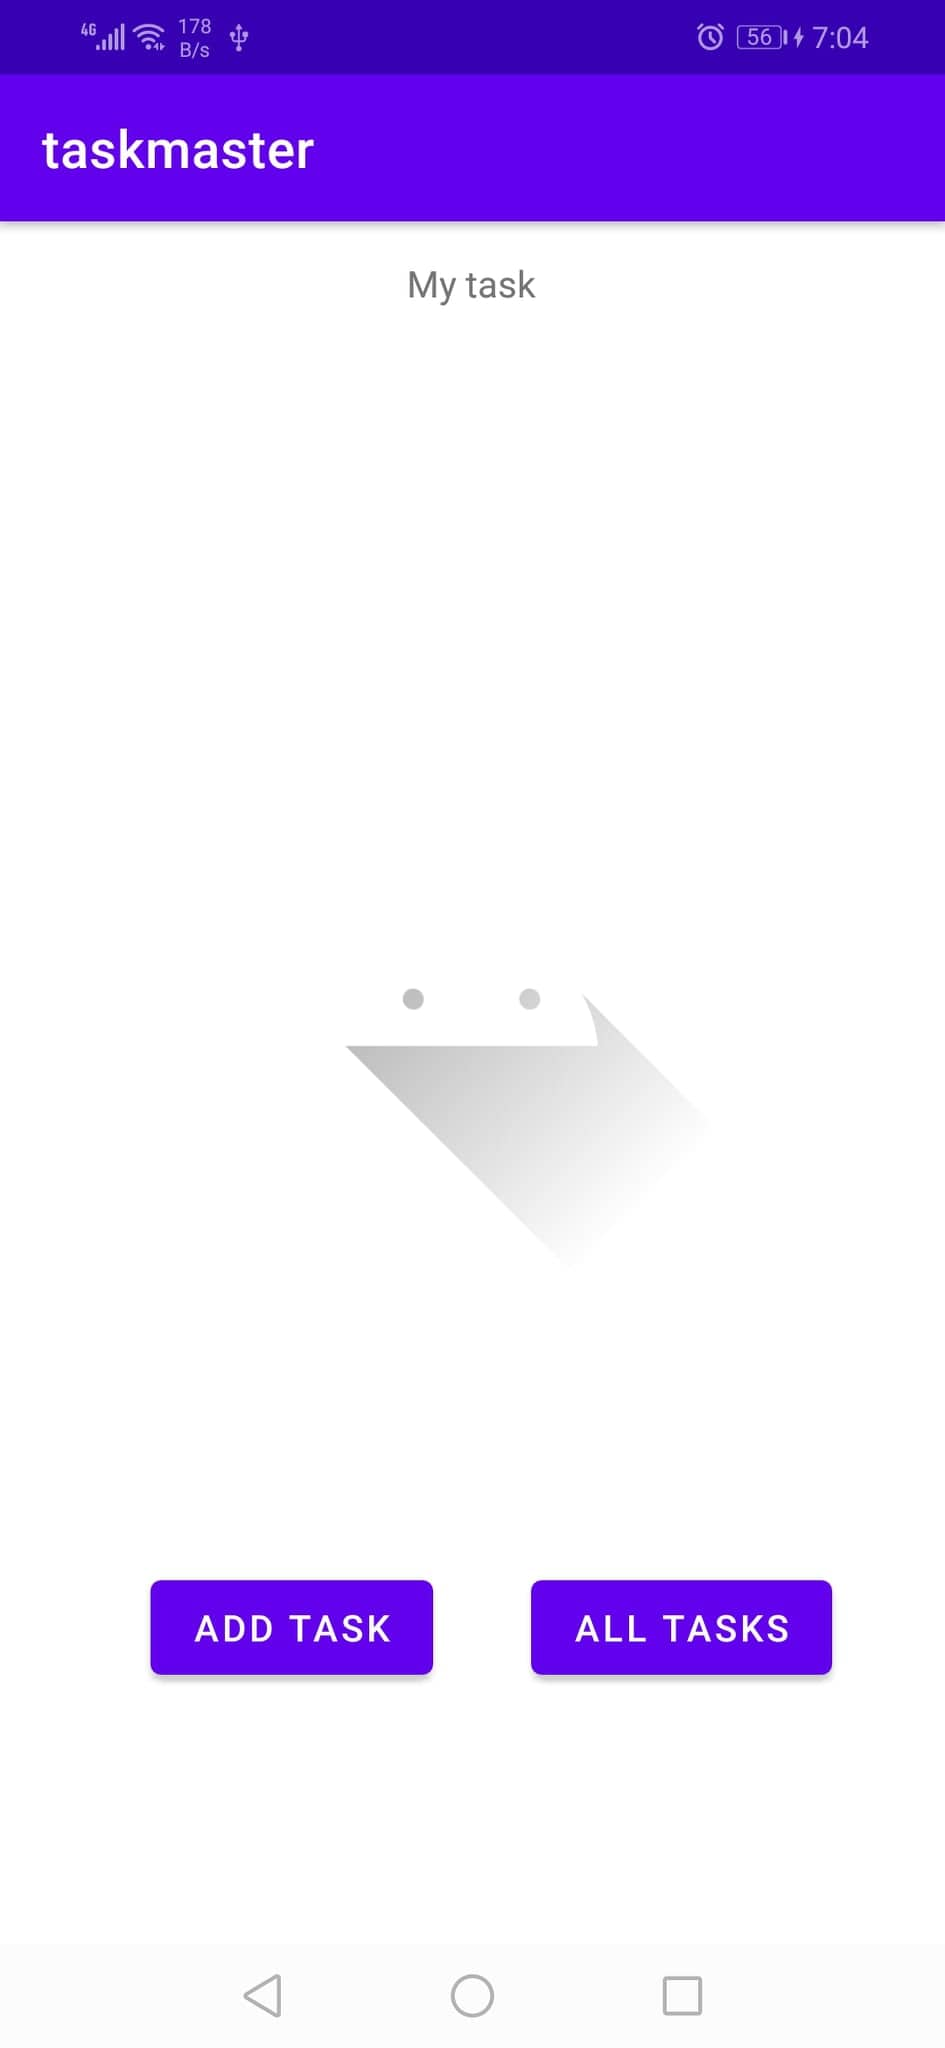
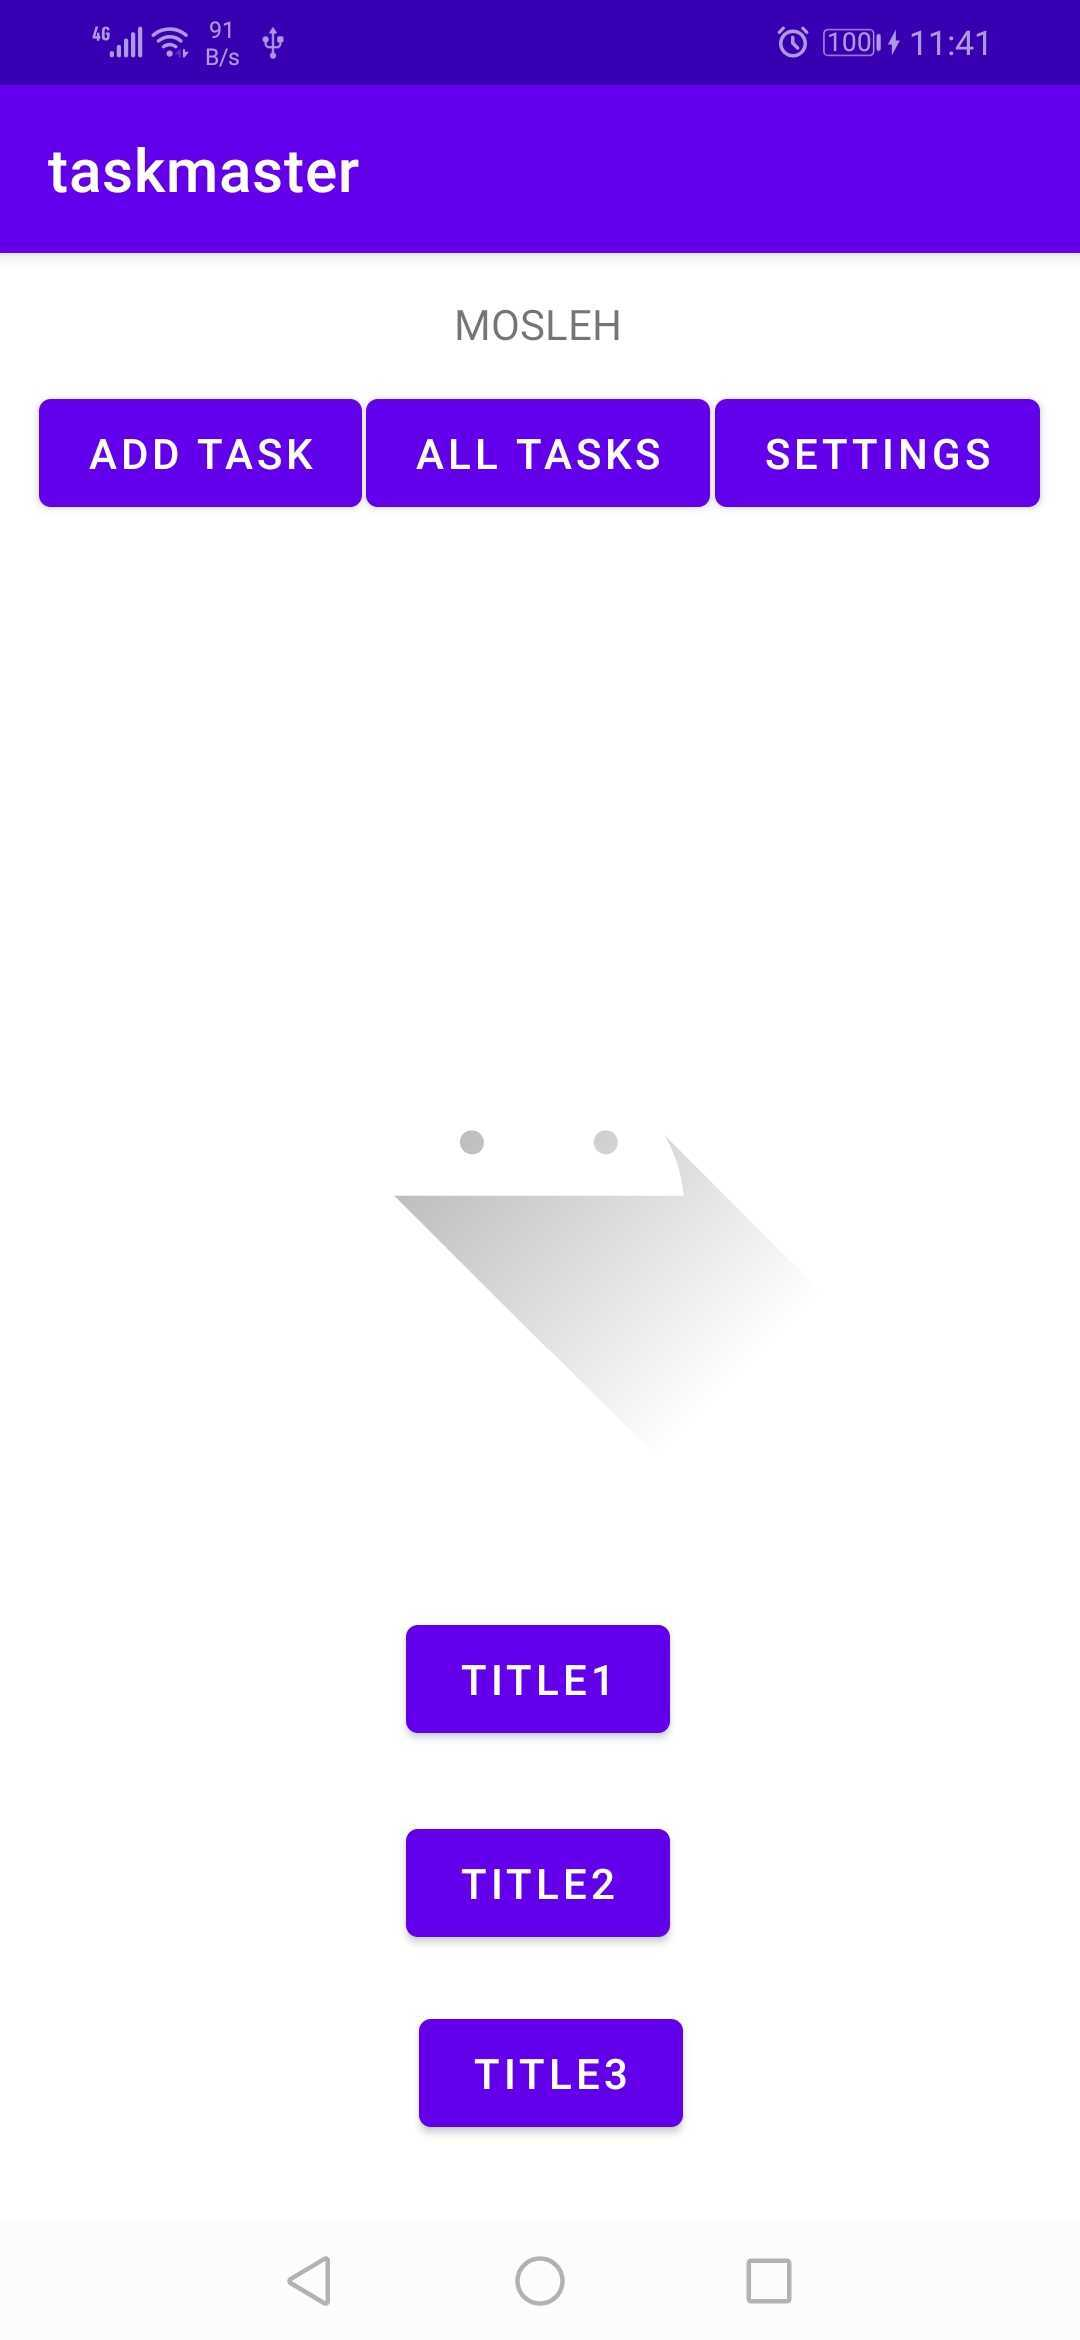
lab27

diff --git a/app/src/main/java/com/example/taskmaster/MainActivity.java b/app/src/main/java/com/example/taskmaster/MainActivity.java
@@ -3,9 +3,13 @@ package com.example.taskmaster;
 import androidx.appcompat.app.AppCompatActivity;
 
 import android.content.Intent;
+import android.content.SharedPreferences;
 import android.os.Bundle;
+import android.preference.PreferenceManager;
 import android.view.View;
 import android.widget.Button;
+import android.widget.EditText;
+import android.widget.TextView;
 import android.widget.Toast;
 
 public class MainActivity extends AppCompatActivity {
@@ -14,6 +18,10 @@ public class MainActivity extends AppCompatActivity {
     protected void onCreate(Bundle savedInstanceState) {
         super.onCreate(savedInstanceState);
         setContentView(R.layout.activity_main);
+
+
+
+
          ////
         Button nextPage1=findViewById(R.id.next1);
         nextPage1.setOnClickListener(new View.OnClickListener() {
@@ -39,5 +47,113 @@ public class MainActivity extends AppCompatActivity {
         });
 
 
+        Button deatils1=findViewById(R.id.Title1);
+        deatils1.setOnClickListener(new View.OnClickListener() {
+            @Override
+            public void onClick(View v) {
+                Intent goToAddtask=new Intent(MainActivity.this,Taskdetail.class);
+                goToAddtask.putExtra("title1","title1");
+                startActivity(goToAddtask);
+
+            }
+        });
+
+        Button deatils2=findViewById(R.id.Title2);
+        deatils2.setOnClickListener(new View.OnClickListener() {
+            @Override
+            public void onClick(View v) {
+                Intent goToAddtask=new Intent(MainActivity.this,Taskdetail.class);
+                goToAddtask.putExtra("title1","title2");
+                startActivity(goToAddtask);
+
+            }
+        });
+
+        Button deatils3=findViewById(R.id.Title3);
+        deatils3.setOnClickListener(new View.OnClickListener() {
+            @Override
+            public void onClick(View v) {
+                Intent goToAddtask=new Intent(MainActivity.this,Taskdetail.class);
+                goToAddtask.putExtra("title1","title3");
+                startActivity(goToAddtask);
+
+            }
+        });
+
+
+
+
+
+
+
+        Button settingPage=findViewById(R.id.setting);
+        settingPage.setOnClickListener(new View.OnClickListener() {
+            @Override
+            public void onClick(View v) {
+                Intent gotoSetting=new Intent(MainActivity.this,Settings.class);
+                startActivity(gotoSetting);
+            }
+        });
+
+
+
+
+
+
+
     }
+
+
+    ///////////////Test///////////
+    @Override
+    protected void onStart() {
+        super.onStart();
+        Toast.makeText(getApplicationContext(), "onStart Called", Toast.LENGTH_LONG).show();
+    }
+
+    // Called when the activity has become visible.
+    @Override
+    protected void onResume() {
+        super.onResume();
+        Toast.makeText(getApplicationContext(), "onResume Called", Toast.LENGTH_LONG).show();
+        SharedPreferences sharedPreferences= PreferenceManager.getDefaultSharedPreferences(MainActivity.this);
+        String userName = sharedPreferences.getString("username","the user didn't add a name yet!");
+        TextView userNametext=findViewById(R.id.textUser);
+        userNametext.setText(userName);
+
+    }
+
+    // Called when another activity is taking focus.
+    @Override
+    protected void onPause() {
+        super.onPause();
+        Toast.makeText(getApplicationContext(), "onPause Called", Toast.LENGTH_LONG).show();
+    }
+
+    // Called when the activity is no longer visible.
+    @Override
+    protected void onStop() {
+        super.onStop();
+        Toast.makeText(getApplicationContext(), "onStop Called", Toast.LENGTH_LONG).show();
+    }
+
+
+    //It is invoked after the activity has been stopped and prior to its starting stage.
+    @Override
+    protected void onRestart() {
+        super.onRestart();
+        Toast.makeText(getApplicationContext(), "onRestart Called", Toast.LENGTH_LONG).show();
+    }
+
+    // Called just before the activity is destroyed.
+    @Override
+    protected void onDestroy() {
+        super.onDestroy();
+        Toast.makeText(getApplicationContext(), "onDestroy Called", Toast.LENGTH_LONG).show();
+    }
+
+
+
+
+
 }

diff --git a/app/src/main/java/com/example/taskmaster/Taskdetail.java b/app/src/main/java/com/example/taskmaster/Taskdetail.java
@@ -1,0 +1,29 @@
+package com.example.taskmaster;
+
+import androidx.appcompat.app.AppCompatActivity;
+
+import android.os.Bundle;
+import android.widget.EditText;
+import android.widget.TextView;
+
+public class Taskdetail extends AppCompatActivity {
+
+    @Override
+    protected void onCreate(Bundle savedInstanceState) {
+        super.onCreate(savedInstanceState);
+        setContentView(R.layout.activity_taskdetail);
+
+        TextView textView = (TextView)findViewById(R.id.lorem);
+        textView.setText("Lorem ipsum dolor sit amet, consectetur adipiscing elit." +
+                " Maecenas tincidunt consectetur odio, vitae feugiat sapien" +
+                " fermentum at. Integer bibendum ultricies massa, in facilisis " +
+                "sapien dictum sed. Donec ullamcorper lectus mattis diam efficitur" +
+                " tempus. Duis consectetur, felis vitae facilisis commodo, libero nunc " +
+                "semper turpis, vel euismod felis tortor nec tellus");
+
+
+        TextView title=findViewById(R.id.taskdetail);
+        String titleFromhome = getIntent().getExtras().get("title1").toString();
+        title.setText(titleFromhome);
+    }
+}

diff --git a/app/src/main/java/com/example/taskmaster/Settings.java b/app/src/main/java/com/example/taskmaster/Settings.java
@@ -1,0 +1,33 @@
+package com.example.taskmaster;
+
+import androidx.appcompat.app.AppCompatActivity;
+
+import android.content.SharedPreferences;
+import android.os.Bundle;
+import android.preference.PreferenceManager;
+import android.view.View;
+import android.widget.Button;
+import android.widget.EditText;
+
+public class Settings extends AppCompatActivity {
+
+    @Override
+    protected void onCreate(Bundle savedInstanceState) {
+        super.onCreate(savedInstanceState);
+        setContentView(R.layout.activity_settings);
+
+        Button submitUser=findViewById(R.id.submitUsername);
+        submitUser.setOnClickListener(new View.OnClickListener() {
+            @Override
+            public void onClick(View v) {
+                EditText userNameInput=findViewById(R.id.username);
+                 String userName=userNameInput.getText().toString();
+                SharedPreferences sharedPreferences= PreferenceManager.getDefaultSharedPreferences(Settings.this);
+                sharedPreferences.edit().putString("username",userName).apply();
+
+            }
+        });
+
+
+    }
+}

diff --git a/README.md b/README.md
@@ -17,3 +17,14 @@
 ![](./screenshots/Alltasks.jpg)
 
    - Disply all tasks
+
+4. Settings
+
+   - User can add username that display in Home page
+
+   ![](./screenshots/taskdetail.jpg)
+
+5. Taskdetail
+   ![](./screenshots/settings.jpg)
+   - Contain Tile and description of task
+
